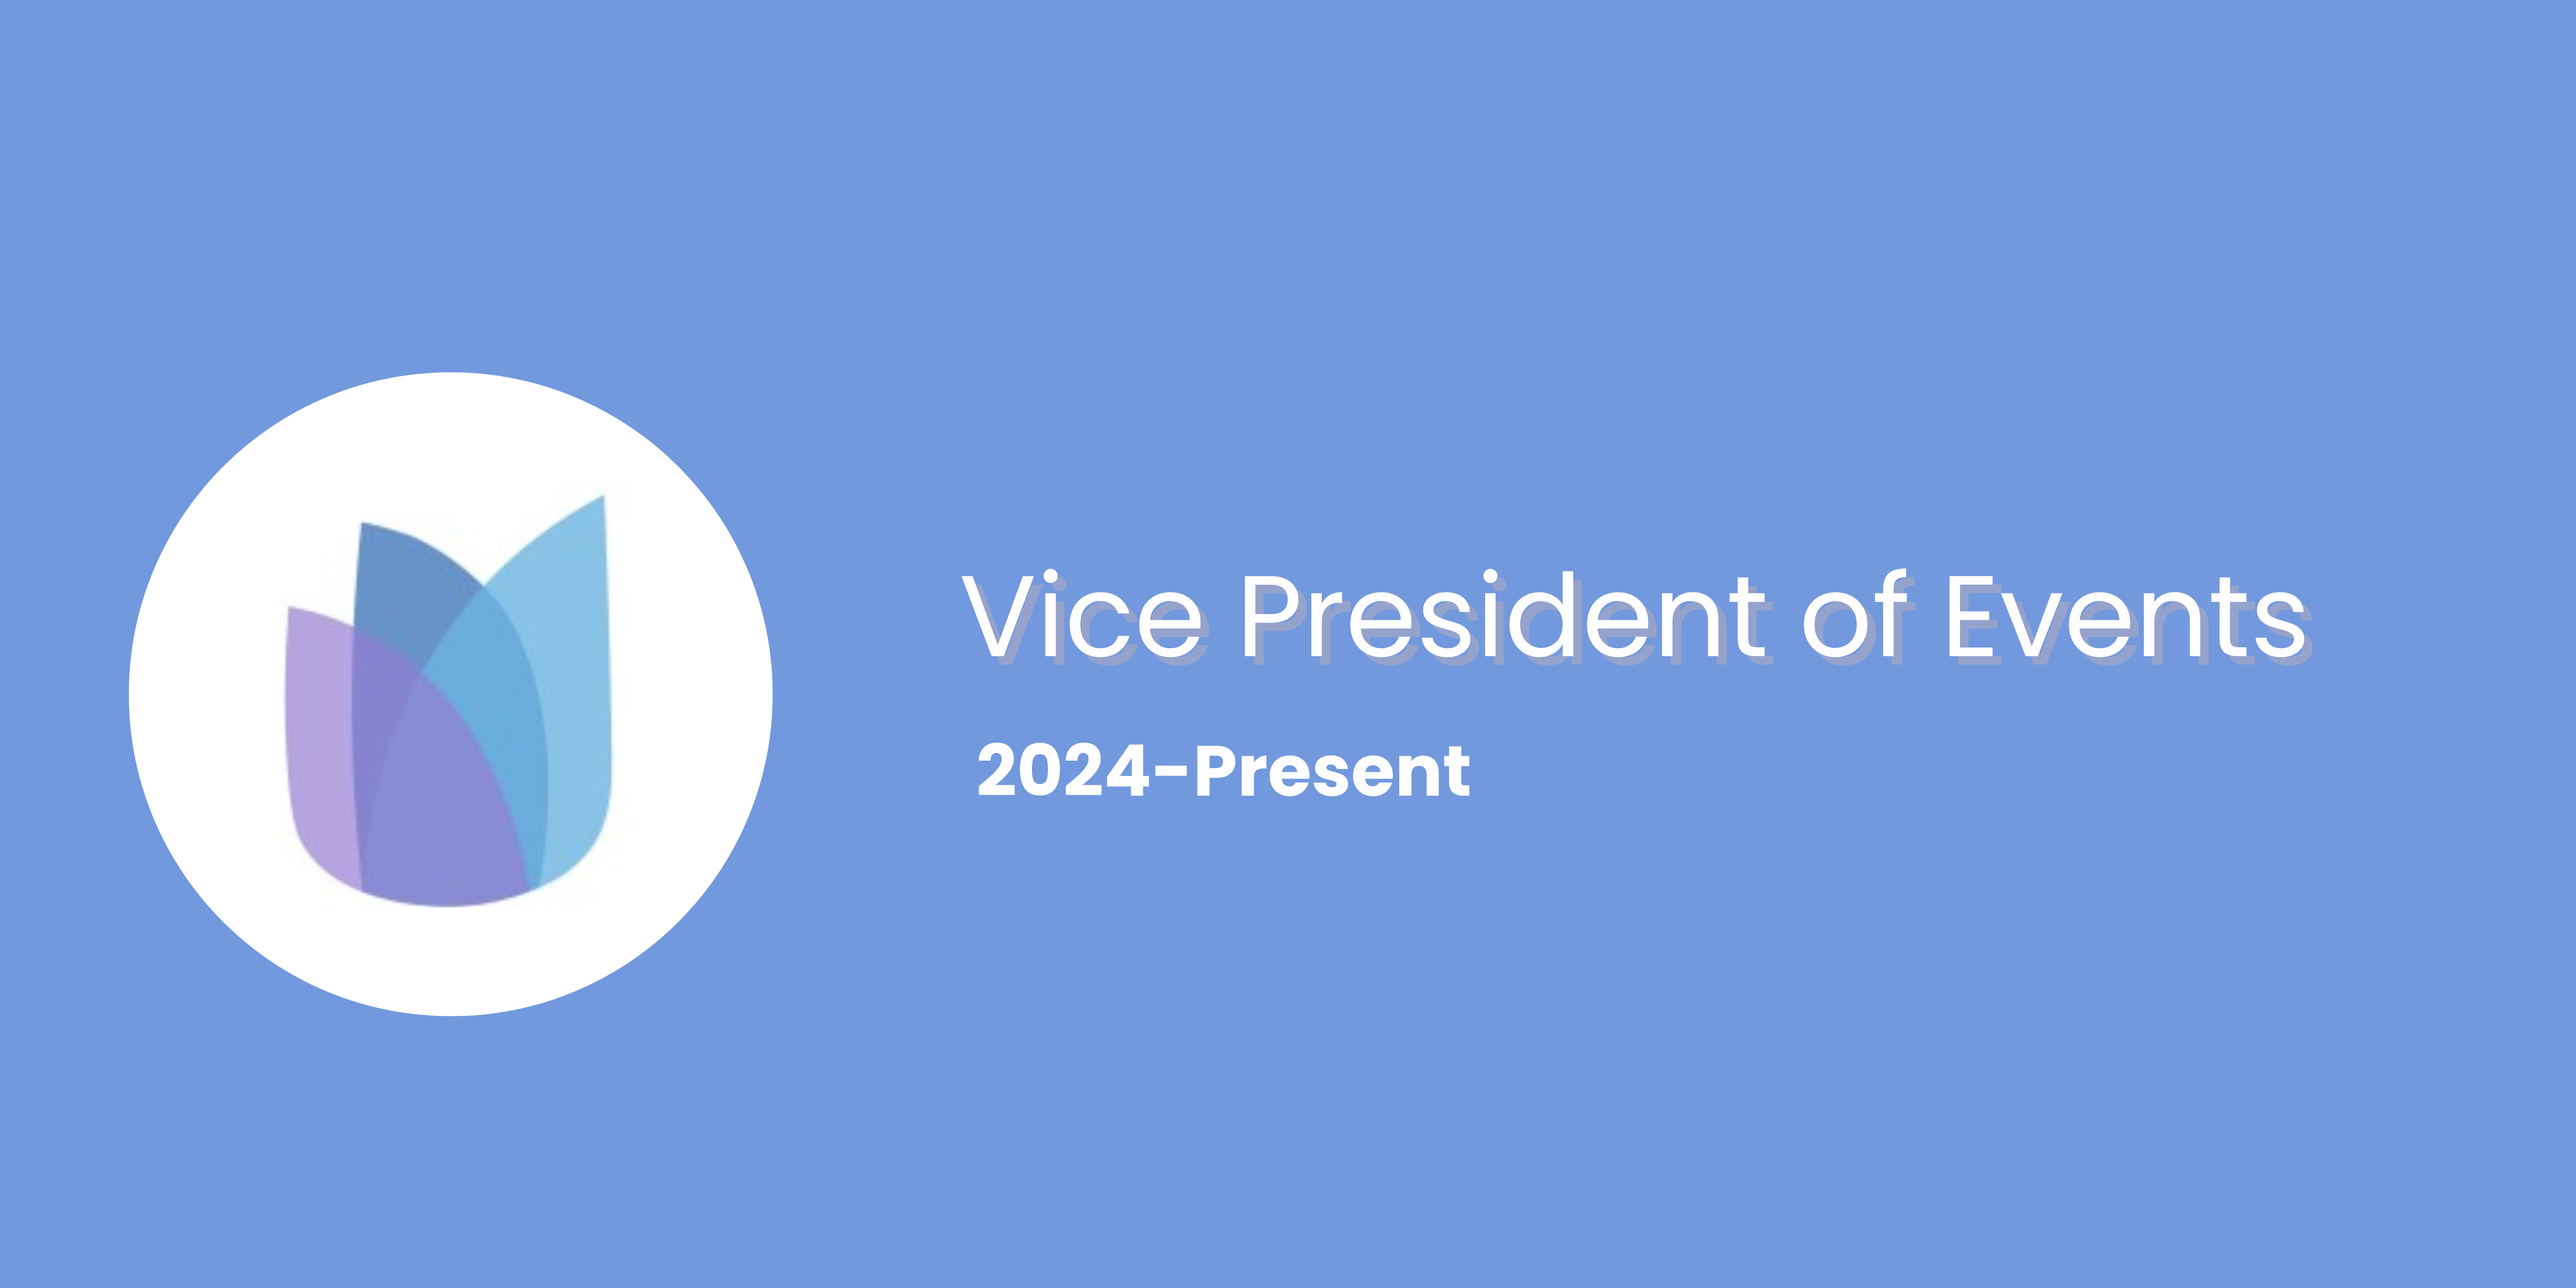
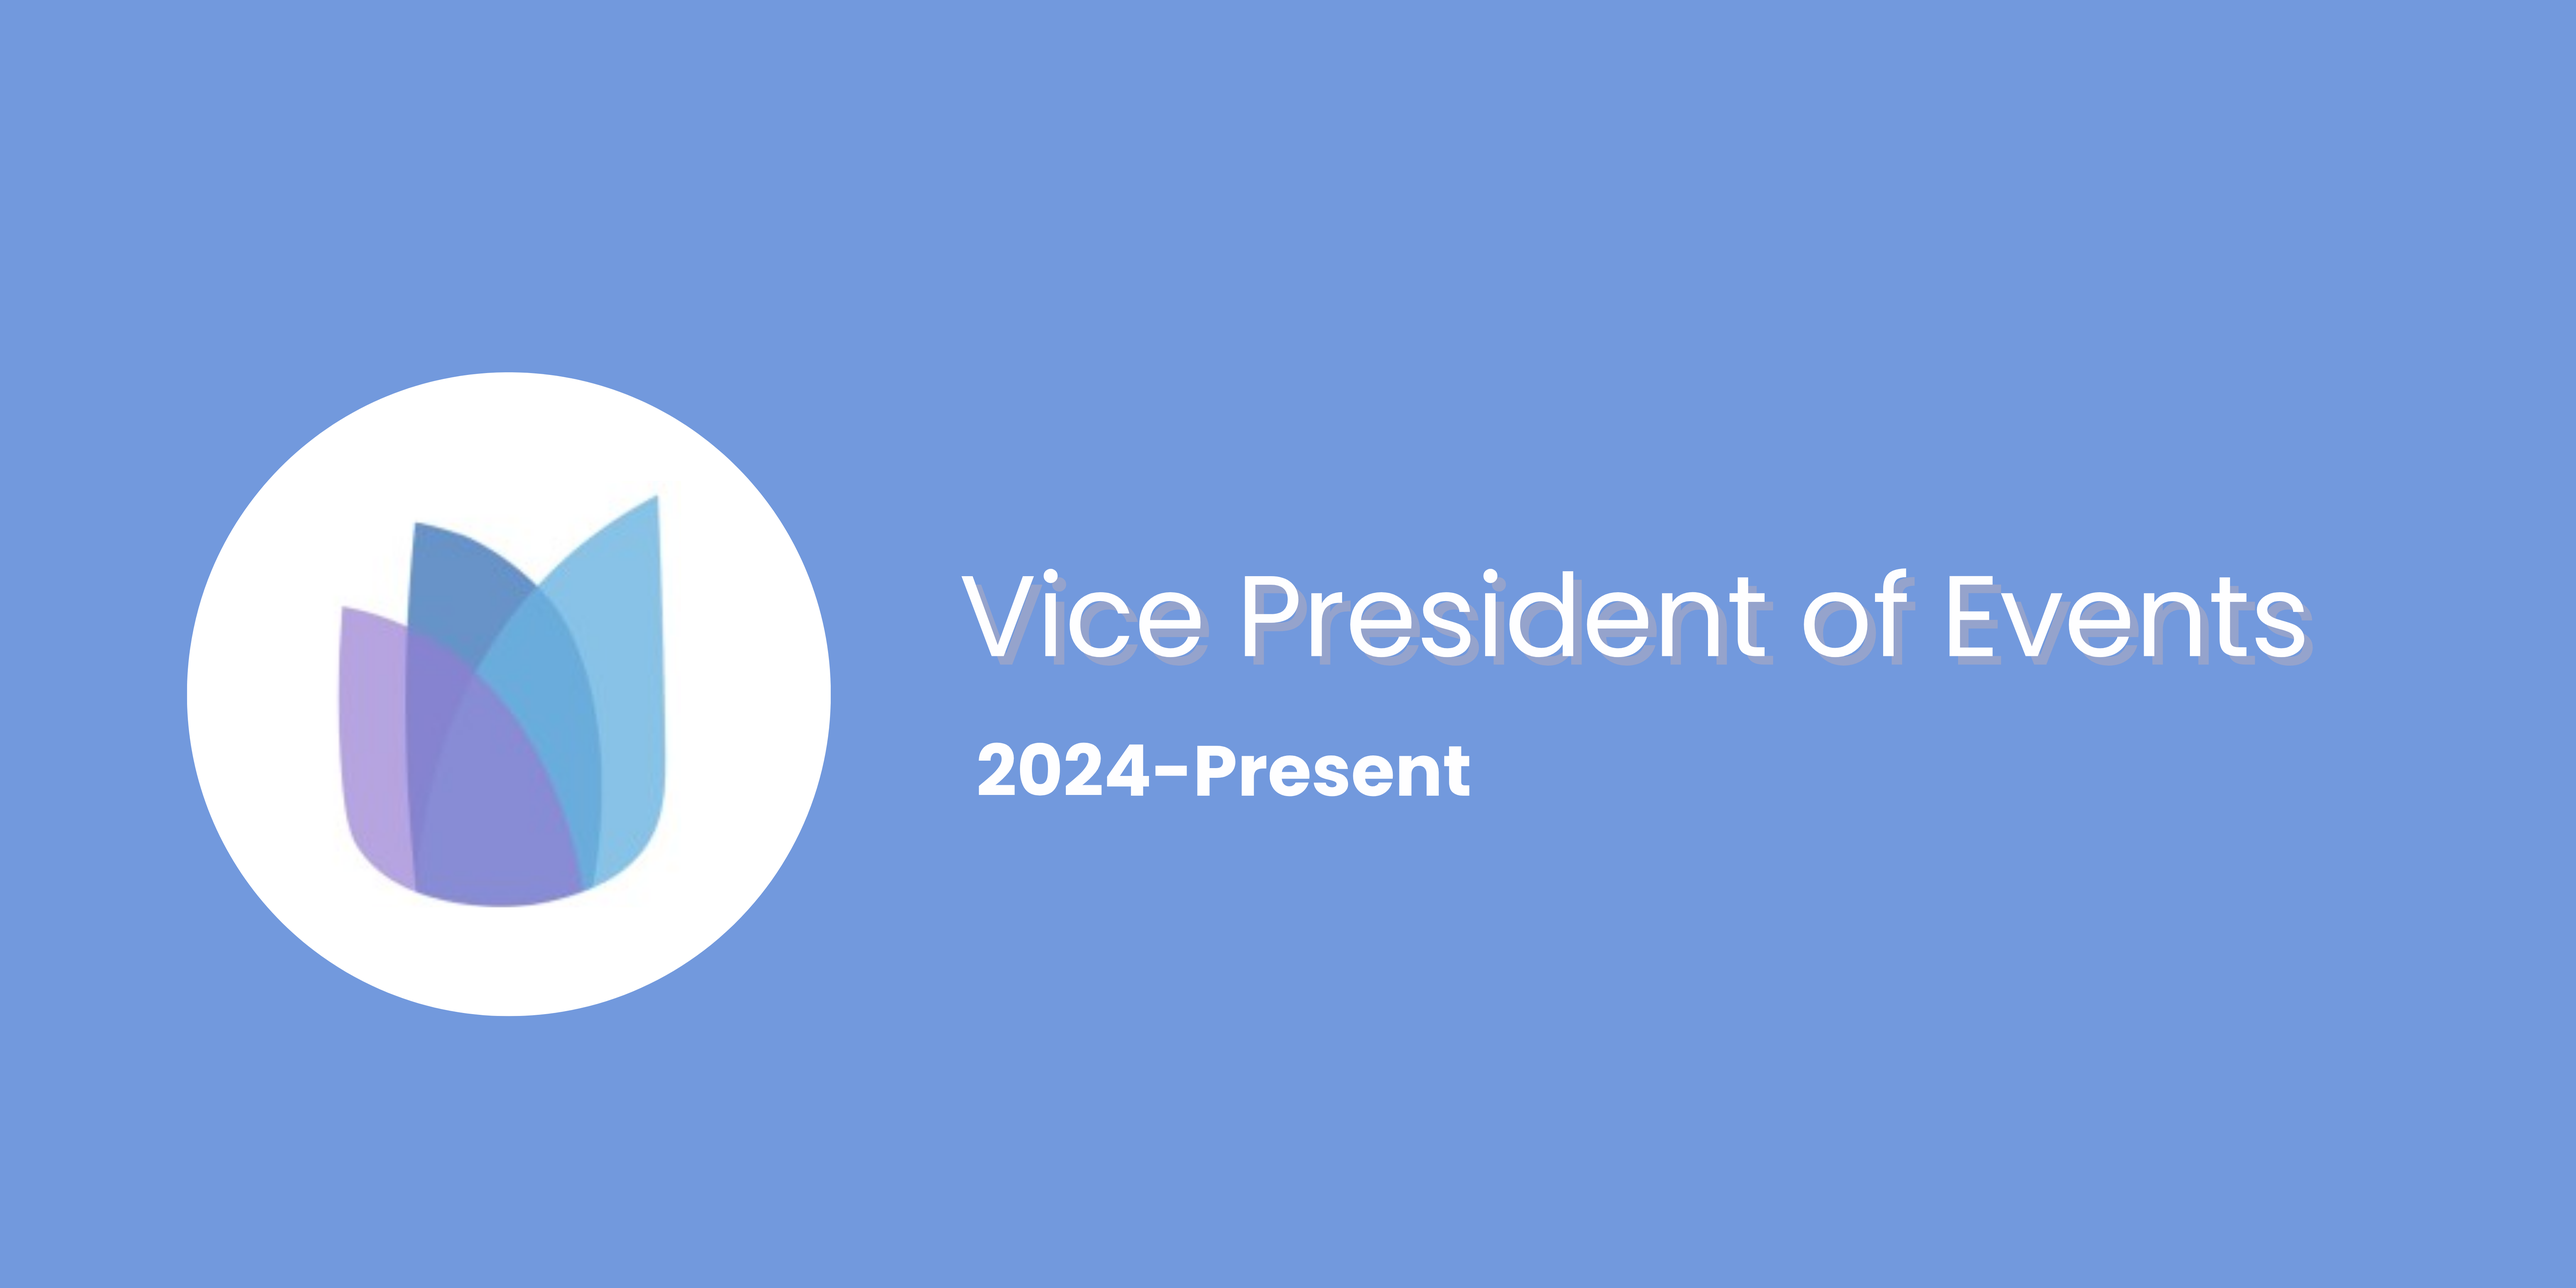
fix: fixed experiences visual

Changed region(s): [[0.0312, 0.2812, 0.3438, 0.7812], [0.1562, 0.7812, 0.2188, 0.8125]]

diff --git a/style.css b/style.css
@@ -781,7 +781,7 @@ main {
   }
 
   body.home-page .main-container .image {
-    order: ;
+    order: 1;
 
     width: min(70vw, 330px);
     max-width: 330px;
